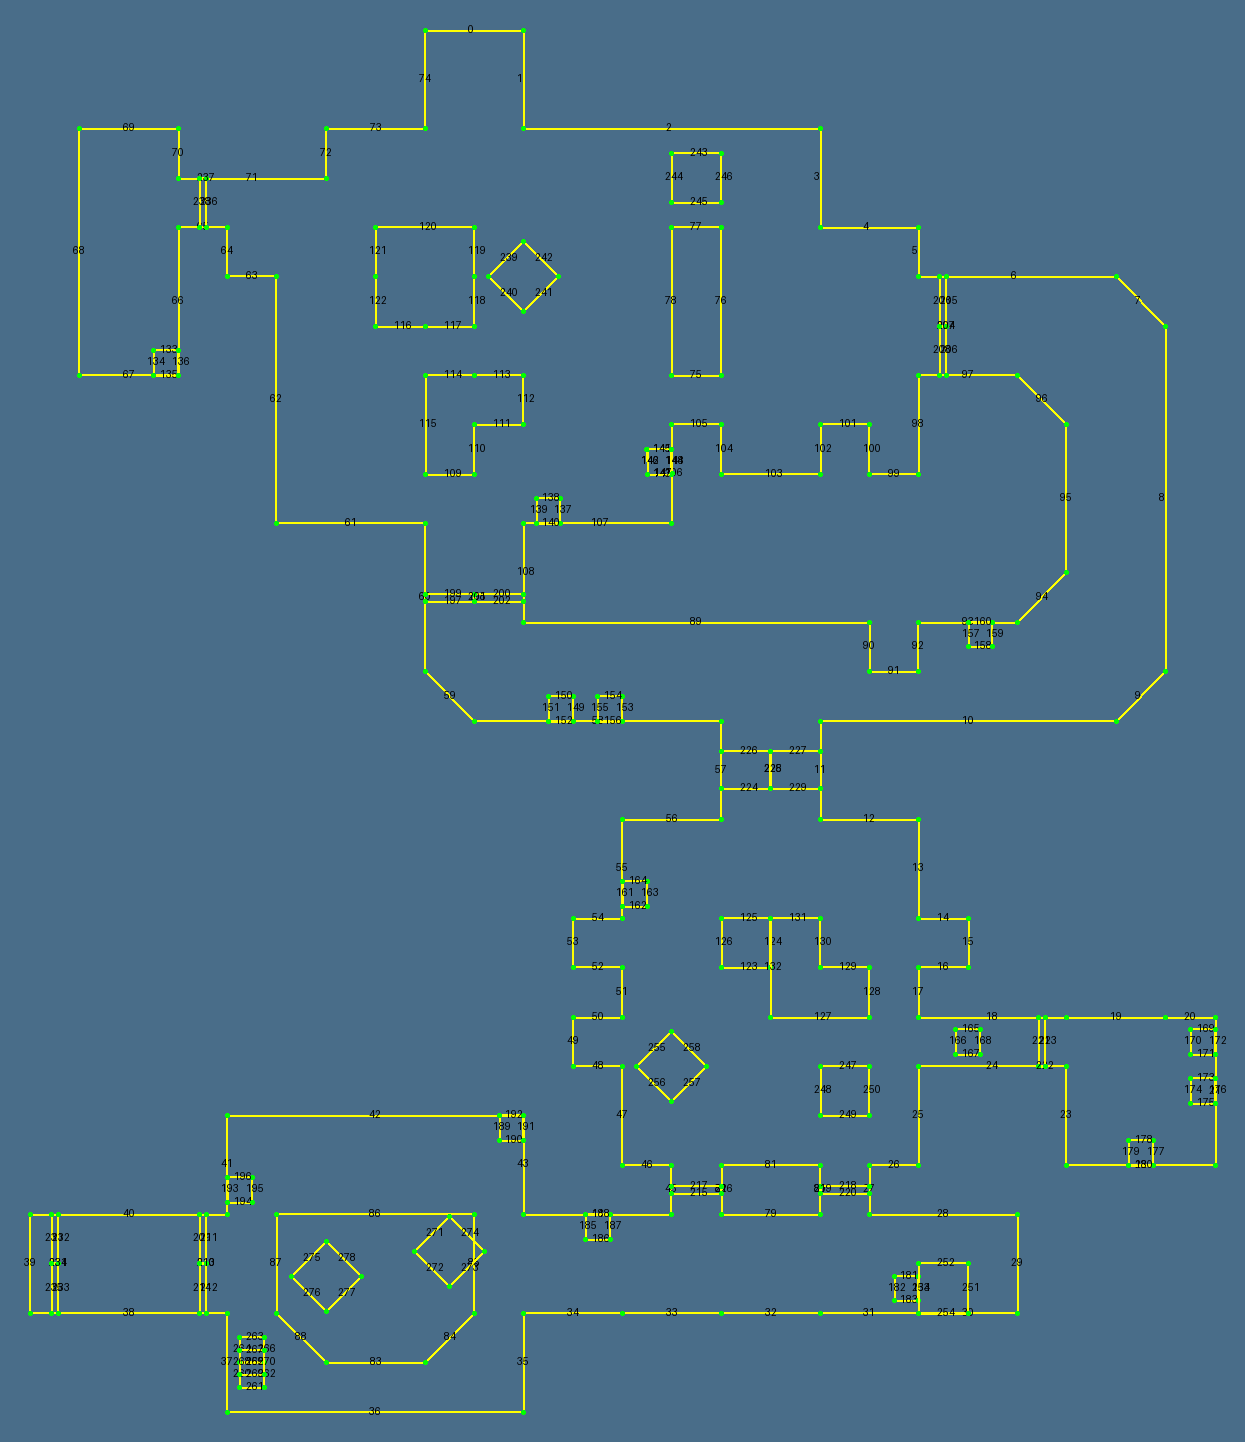
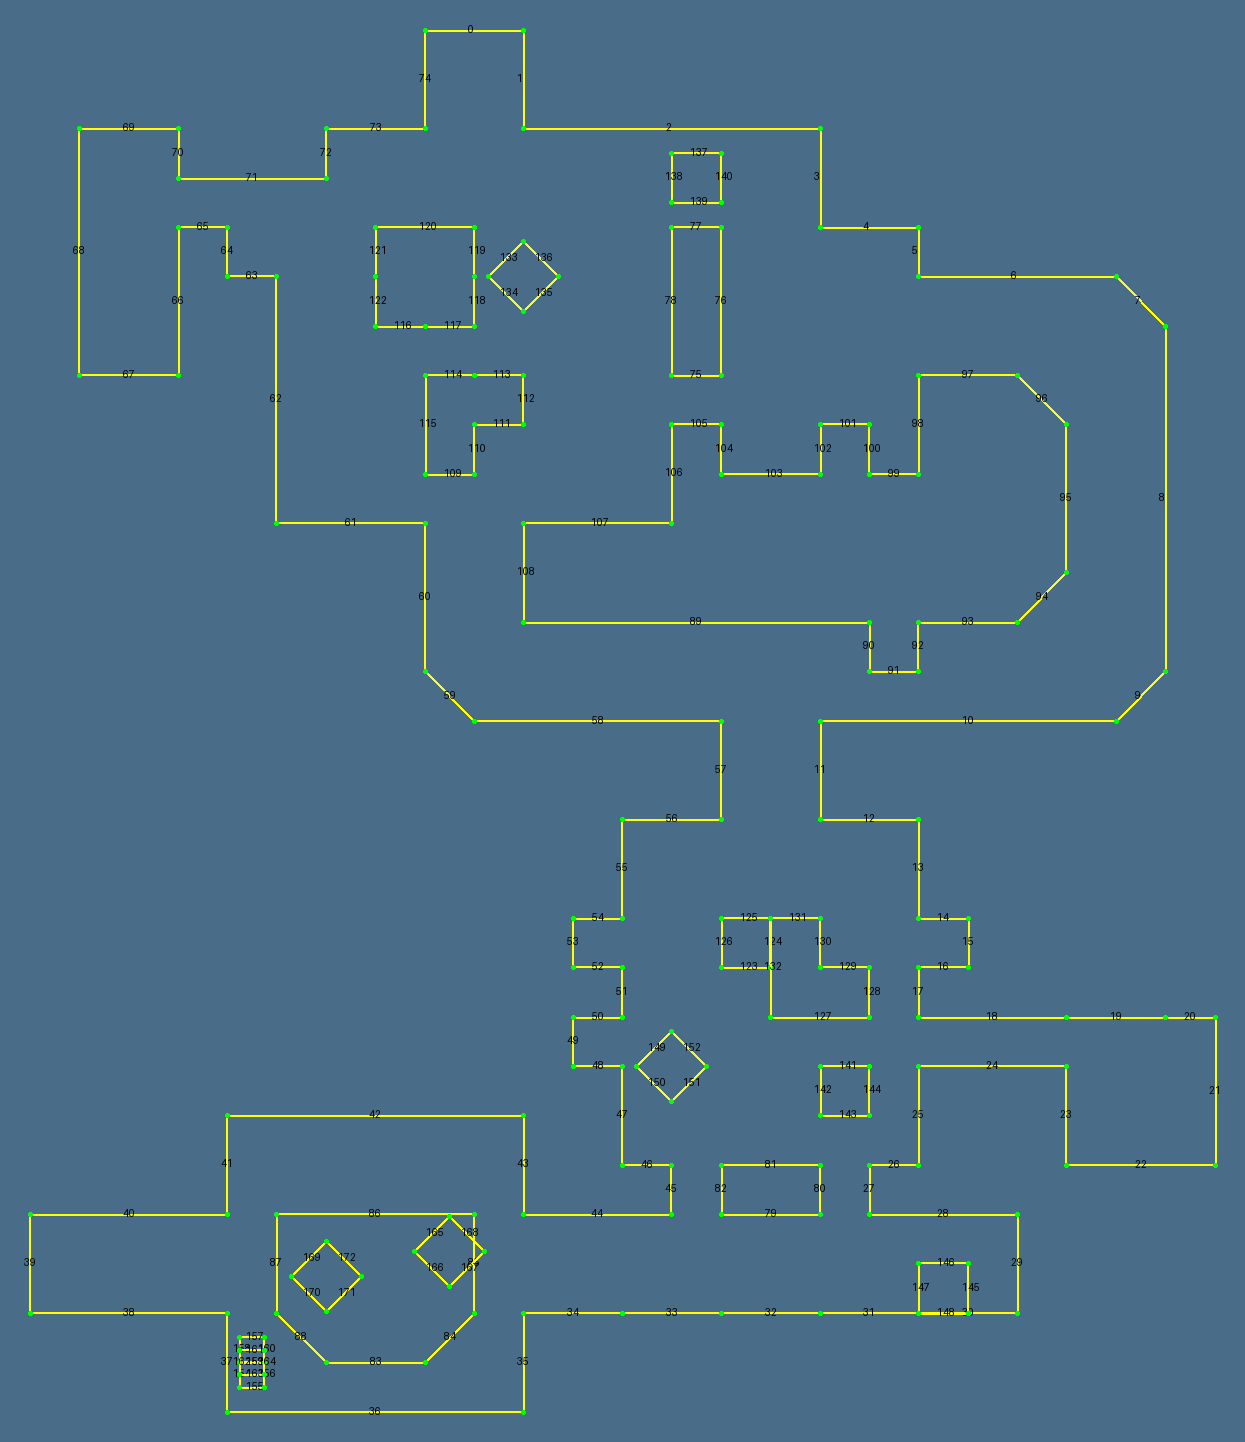
load crates, doors, height in python; remove crates and doors in MapInterim

diff --git a/src/ClassesInterim.py b/src/ClassesInterim.py
@@ -1,19 +1,14 @@
 from dataclasses import dataclass
 from typing import Any
-from enum import Enum
-from ClassesB3D import MapB3D
+from ClassesB3D import MapB3D, CrateB3D, DoorB3D
 from algebraFunctions import resolveSegmentsOverlap
-
-class HeightType(Enum):
-    FULL = 1
-    BOTTOM = 2
-    TOP = 3
+from ClassesShared import Vertex, HeightType
 
 
 @dataclass
 class LineInterim:
-    v1 : tuple[int]
-    v2 : tuple[int]
+    v1 : Vertex
+    v2 : Vertex
     height : HeightType = None
     side1 : Any = None
     side2 : Any = None
@@ -24,19 +19,40 @@ class MapInterim:
         self.lines: list[LineInterim] = []
         for line in mapB3D.lines:
             self.lines.append(LineInterim(v1=line.v1, v2=line.v2))
-        self.lines = self.cullLines(self.lines)
+        self._removeCratesAndDoors(mapB3D.crates, mapB3D.doors)
 
-    @staticmethod
-    def cullLines(lines: list[LineInterim]) -> list[LineInterim]:
-        i = 0
-        while i < len(lines):
-            j = i + 1
-            while j < len(lines):
-                resolved = resolveSegmentsOverlap(lines[i].v1[0], lines[i].v1[1], lines[i].v2[0], lines[i].v2[1],
-                                                  lines[j].v1[0], lines[j].v1[1], lines[j].v2[0], lines[j].v2[1])
-                # if resolved:
-                    # print(i, j, (lines[i].v1[0], lines[i].v1[1], lines[i].v2[0], lines[i].v2[1]),
-                    #             (lines[j].v1[0], lines[j].v1[1], lines[j].v2[0], lines[j].v2[1]),
-                    #         "->\n      ", *resolved)
-                j += 1
-            i += 1
+    def _removeCratesAndDoors(self, crates: list[CrateB3D], doors: list[DoorB3D]):
+        linesToRemove: list[int] = []
+        for crate in crates:
+            linesToRemove.append(crate.startLineIdx)
+            linesToRemove.append(crate.startLineIdx+1)
+            linesToRemove.append(crate.startLineIdx+2)
+            linesToRemove.append(crate.startLineIdx+3)
+        for door in doors:
+            linesToRemove.append(door.startLineIdx)
+            linesToRemove.append(door.startLineIdx+1)
+            linesToRemove.append(door.startLineIdx+2)
+
+        newLines: list[LineInterim] = []
+        for i, line in enumerate(self.lines):
+            if i not in linesToRemove:
+                newLines.append(line)
+        self.lines = newLines
+
+
+
+    # @staticmethod
+    # def cullLines(lines: list[LineInterim]) -> list[LineInterim]:
+    #     i = 0
+    #     while i < len(lines):
+    #         j = i + 1
+    #         while j < len(lines):
+    #             resolved = resolveSegmentsOverlap(lines[i].v1.x, lines[i].v1.y, lines[i].v2.x, lines[i].v2.y,
+    #                                               lines[j].v1.x, lines[j].v1.y, lines[j].v2.x, lines[j].v2.y)
+    #             # if resolved:
+    #                 # print(i, j, (lines[i].v1.x, lines[i].v1.y, lines[i].v2.x, lines[i].v2.y),
+    #                 #             (lines[j].v1.x, lines[j].v1.y, lines[j].v2.x, lines[j].v2.y),
+    #                 #         "->\n      ", *resolved)
+    #             j += 1
+    #         i += 1
+    #     return lines

diff --git a/src/ClassesB3D.py b/src/ClassesB3D.py
@@ -1,17 +1,56 @@
 from dataclasses import dataclass
 from typing import Any
+from ClassesShared import Vertex, HeightType
 
+@dataclass
+class DoorB3D:
+    startLineIdx : int
+    pair: Any = None
+    texture : Any = None
+
+@dataclass
+class CrateB3D:
+    startLineIdx : int
+    angle : int
+    content : int
+    texture : Any = None
 
 @dataclass
 class LineB3D:
-    v1 : tuple[int]
-    v2 : tuple[int]
-    side1 : Any = None
-    side2 : Any = None
+    v1 : Vertex
+    v2 : Vertex
+    height : HeightType
+    texture : Any = None
 
 
 class MapB3D:
-    def __init__(self, rawLines: list[list[int]]):
+    def __init__(self, rawLines: list[list[int]], rawHeight: list[int],
+            cratesStartLineIdx: list[int], cratesContent: list[int], cratesAngles: list[int],
+            doorsStartLineIdx
+    ):
         self.lines: list[LineB3D] = []
         for i in range(len(rawLines[0])):
-            self.lines.append(LineB3D(v1=(rawLines[0][i], rawLines[1][i]), v2=(rawLines[2][i], rawLines[3][i])))
+            self.lines.append(
+                LineB3D(
+                    v1=Vertex(rawLines[0][i], rawLines[1][i]),
+                    v2=Vertex(rawLines[2][i], rawLines[3][i]),
+                    height=HeightType(rawHeight[i])
+                )
+            )
+
+        self.crates: list[CrateB3D] = []
+        for idx in range(len(cratesStartLineIdx)):
+            self.crates.append(CrateB3D(
+                startLineIdx=cratesStartLineIdx[idx],
+                content=cratesContent[idx],
+                angle=cratesAngles[idx],
+                texture=self.lines[cratesStartLineIdx[idx]].texture,
+            ))
+
+        self.doors: list[DoorB3D] = []
+        for idx in range(len(doorsStartLineIdx)):
+            self.doors.append(DoorB3D(
+                startLineIdx=doorsStartLineIdx[idx],
+                texture=self.lines[doorsStartLineIdx[idx]].texture,
+            ))
+

diff --git a/java/ResourcesLoaderB3D.java b/java/ResourcesLoaderB3D.java
@@ -6,8 +6,8 @@ import java.util.ArrayList;
 
 public class ResourcesLoaderB3D {
    public String ROOT_JAR = "../jars/b3d.d";
-   public ArrayList<Integer> DOORS_INDEXES = new ArrayList<>();
-   public ArrayList<Integer> CRATES_INDEXES = new ArrayList<>();
+   public ArrayList<Integer> DOORS_START_LINE_IDX = new ArrayList<>();
+   public ArrayList<Integer> CRATES_START_LINE_IDX = new ArrayList<>();
    public ArrayList<Byte> CRATES_CONTENT = new ArrayList<>();
    public ArrayList<Byte> CRATES_ANGLE = new ArrayList<>();
    public byte c;
@@ -755,7 +755,7 @@ public class ResourcesLoaderB3D {
             var26[var6] = (byte)(var26[var6] - 4);
             this.ch[var6] = 1;
          }
-         CRATES_INDEXES.add(var12);
+         CRATES_START_LINE_IDX.add(var12);
          CRATES_CONTENT.add(bigLump1[12][var3][4]);
          CRATES_ANGLE.add(bigLump1[12][var3][3]);
          var12 = this.modifyBigLump1_subfunction1((long)var14, (long)var15, 16384L, 16384L, bigLump1[12][var3][3], var12, bigLump1[12][var3][2], bigLump1[12][var3][2], bigLump1[12][var3][2], bigLump1[12][var3][2], (byte)1, (byte)0);
@@ -829,7 +829,7 @@ public class ResourcesLoaderB3D {
             var10003 = 7;
          }
 
-         DOORS_INDEXES.add(var12);
+         DOORS_START_LINE_IDX.add(var12);
          this.modifyBigLump1_subfunction2(var30, var31, var10003, var12);
          this.modifyBigLump1_subfunction3(this.dp[var3], (long)this.dv[var3], (long)this.dx[var3], this.dr[var3], this.ds[var3], var12, 0);
          var12 = this.modifyBigLump1_subfunction3(this.dp[var3], (long)this.dv[var3], (long)this.dw[var3], this.dr[var3], this.ds[var3], var12, 1);

diff --git a/src/drawMap.py b/src/drawMap.py
@@ -1,13 +1,12 @@
 from PIL import Image, ImageDraw, ImageFont
-from ClassesB3D import LineB3D
+from ClassesInterim import MapInterim
 
-
-def draw_lines(lines: list[LineB3D], show=True, name=None, resolution=1280, frame=30):
+def draw_lines(map: MapInterim, show=True, name=None, resolution=1280, frame=30):
     # Calculate min and max coordinates
-    min_x = min(min(line.v1[0], line.v2[0]) for line in lines)
-    max_x = max(max(line.v1[0], line.v2[0]) for line in lines)
-    min_y = min(min(line.v1[1], line.v2[1]) for line in lines)
-    max_y = max(max(line.v1[1], line.v2[1]) for line in lines)
+    min_x = min(min(line.v1.x, line.v2.x) for line in map.lines)
+    max_x = max(max(line.v1.x, line.v2.x) for line in map.lines)
+    min_y = min(min(line.v1.y, line.v2.y) for line in map.lines)
+    max_y = max(max(line.v1.y, line.v2.y) for line in map.lines)
     ratio = (max_y - min_y) / (max_x - min_x)
     height = int((resolution**2 * ratio)**0.5)
     width = int(resolution**2/height)
@@ -23,9 +22,9 @@ def draw_lines(lines: list[LineB3D], show=True, name=None, resolution=1280, fram
     draw = ImageDraw.Draw(img)
 
     # Draw lines
-    for i, line in enumerate(lines):
-        x1, y1 = line.v1
-        x2, y2 = line.v2
+    for i, line in enumerate(map.lines):
+        x1, y1 = line.v1.x, line.v1.y
+        x2, y2 = line.v2.x, line.v2.y
         scaled_x1, scaled_y1 = rescale(x1, y1)
         scaled_x2, scaled_y2 = rescale(x2, y2)
         draw.line([(scaled_x1, scaled_y1), (scaled_x2, scaled_y2)], fill=(255, 255, 0), width=2)

diff --git a/java/MainB3D.java b/java/MainB3D.java
@@ -1,3 +1,4 @@
+
 public class MainB3D {
     public static void main(String[] args) {
         int selectedMap = Integer.parseInt(args[0]);
@@ -6,12 +7,12 @@ public class MainB3D {
         loader.readMetadata();
         loader.initCosTable();
         loader.loadMap();
-        Json.export("cW", loader.cW); // Lines: vertexes
-        Json.export("cX", loader.cX); // Lines: textures
+        Json.export("LINES_VERTEXES", loader.cW);
+        Json.export("LINES_TEXTURES", loader.cX);
         Json.export("bz", loader.bz); // Lines: unknown (somehow connected with right doors, maybe texture mirroring)
-        Json.export("by", loader.by); // Lines: height: 0 - full, 1 - bottom half, 2 - top half
-        Json.export("DOORS_INDEXES", loader.DOORS_INDEXES);
-        Json.export("CRATES_INDEXES", loader.CRATES_INDEXES);
+        Json.export("LINES_HEIGHT", loader.by); // 0 - full, 1 - bottom half, 2 - top half
+        Json.export("DOORS_START_LINE_IDX", loader.DOORS_START_LINE_IDX);
+        Json.export("CRATES_START_LINE_IDX", loader.CRATES_START_LINE_IDX);
         Json.export("CRATES_CONTENT", loader.CRATES_CONTENT); // 0 - nothing, 1 - ammo, 2 - health, 3 - health+ammo, 7 - health+ammo, 6 - unknown
         Json.export("CRATES_ANGLE", loader.CRATES_ANGLE);
     }

diff --git a/src/loadFromJava.py b/src/loadFromJava.py
@@ -1,21 +1,25 @@
 import json, os
 from ClassesB3D import MapB3D
 
-def read_2d_list_from_json(filename):
+
+def read1DArray(arrayName: str) -> list[int]:
+    filename = f'tmp/{arrayName}.json'
+    with open(filename, 'r') as file:
+        data = json.load(file)
+        return [int(num) for num in data]
+
+def read2DArray(arrayName: str) -> list[list[int]]:
+    filename = f'tmp/{arrayName}.json'
     with open(filename, 'r') as file:
         data = json.load(file)
         return [[int(num) for num in row] for row in data]
 
 
-def readArray(arrayName: str):
-    filename = f'tmp/{arrayName}.json'
-    data = read_2d_list_from_json(filename)
-    return data
-
-
-def loadMap(mapIndex):
+def loadB3DMap(mapIndex):
     returnCode = os.system(f'./bin/runJava.sh {mapIndex}')
     if (returnCode != 0):
         raise Exception(f"java returned {returnCode}")
-    map = MapB3D(rawLines=readArray('cW'))
+    map = MapB3D(rawLines=read2DArray('LINES_VERTEXES'), rawHeight=read1DArray('LINES_HEIGHT'),
+        cratesStartLineIdx=read1DArray('CRATES_START_LINE_IDX'), cratesContent=read1DArray('CRATES_CONTENT'),
+        cratesAngles=read1DArray('CRATES_ANGLE'), doorsStartLineIdx=read1DArray('DOORS_START_LINE_IDX'))
     return map

diff --git a/src/algebraFunctions.py b/src/algebraFunctions.py
@@ -71,16 +71,16 @@ def resolveSegmentsOverlap(xA, yA, xB, yB, xC, yC, xD, yD):
 
 
 def test():
-    from drawMap import LineB3D, draw_lines
+    from drawMap import draw_lines
     lines = [
         LineB3D(v1=(10, 10), v2=(10, 13)),
         LineB3D(v1=(10, 12), v2=(10, 11)),
     ]
-    draw_lines(lines, show=True)
+    # draw_lines(lines, show=True)
     i = 0
     j = 1
-    result = resolveSegmentsOverlap(lines[i].v1[0], lines[i].v1[1], lines[i].v2[0], lines[i].v2[1],
-                                        lines[j].v1[0], lines[j].v1[1], lines[j].v2[0], lines[j].v2[1])
+    result = resolveSegmentsOverlap(lines[i].v1.x, lines[i].v1.y, lines[i].v2.x, lines[i].v2.y,
+                                    lines[j].v1.x, lines[j].v1.y, lines[j].v2.x, lines[j].v2.y)
     print(result)
 
 # test()

diff --git a/src/convert.py b/src/convert.py
@@ -1,10 +1,9 @@
-import omg
-from loadFromJava import loadMap
+from loadFromJava import loadB3DMap
 from drawMap import draw_lines
 from ClassesInterim import MapInterim
 
 
 for idx in range(1, 2):
-    map = loadMap(idx)
-    draw_lines(map.lines, name=f'c1m{idx}', show=False)
-    MapInterim(map)
+    map = loadB3DMap(idx)
+    map = MapInterim(map)
+    draw_lines(map, name=f'c1m{idx}', show=False)

diff --git a/src/ClassesShared.py b/src/ClassesShared.py
@@ -1,0 +1,12 @@
+from dataclasses import dataclass
+from enum import Enum
+
+class HeightType(Enum):
+    FULL = 0
+    BOTTOM = 1
+    TOP = 2
+
+@dataclass
+class Vertex:
+    x: int
+    y: int
